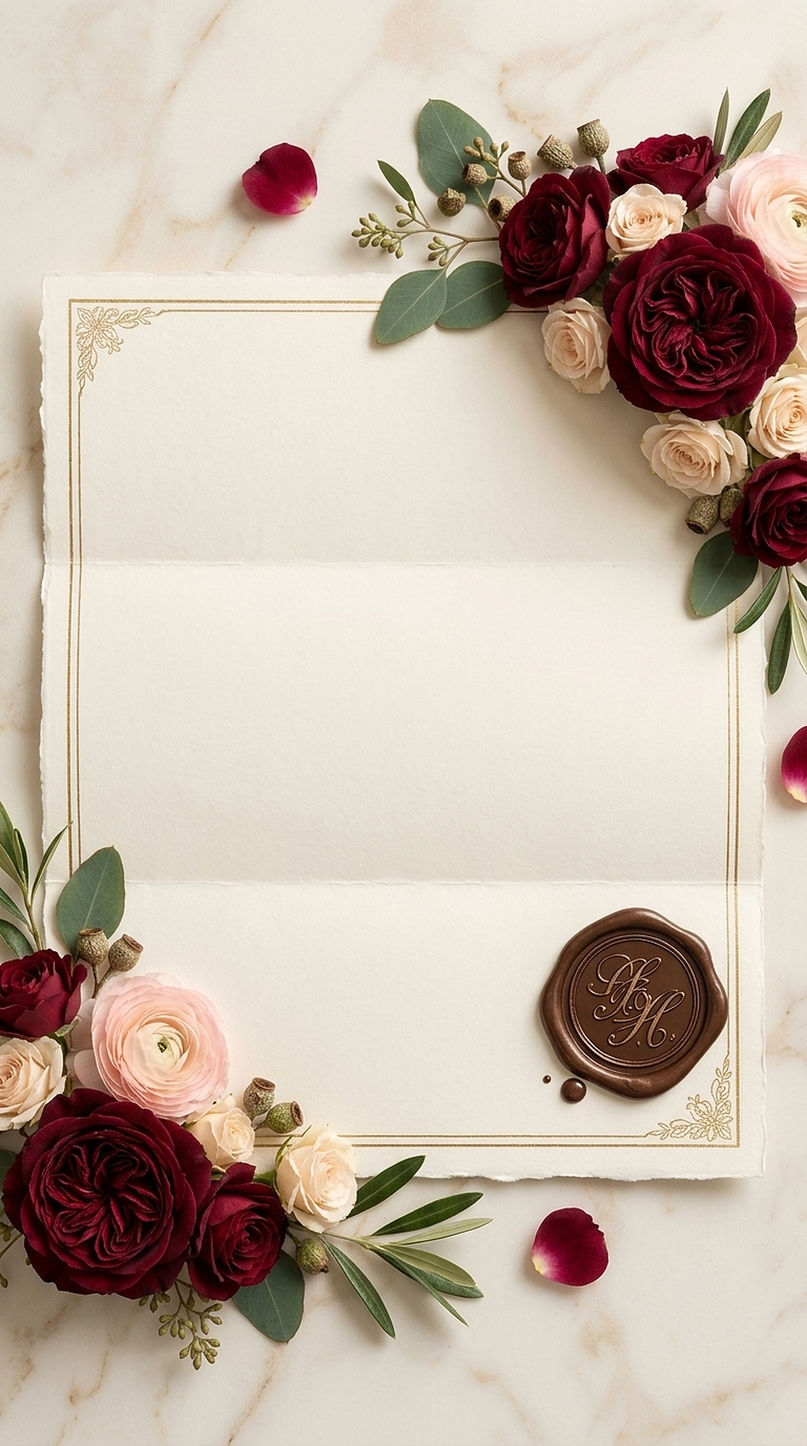
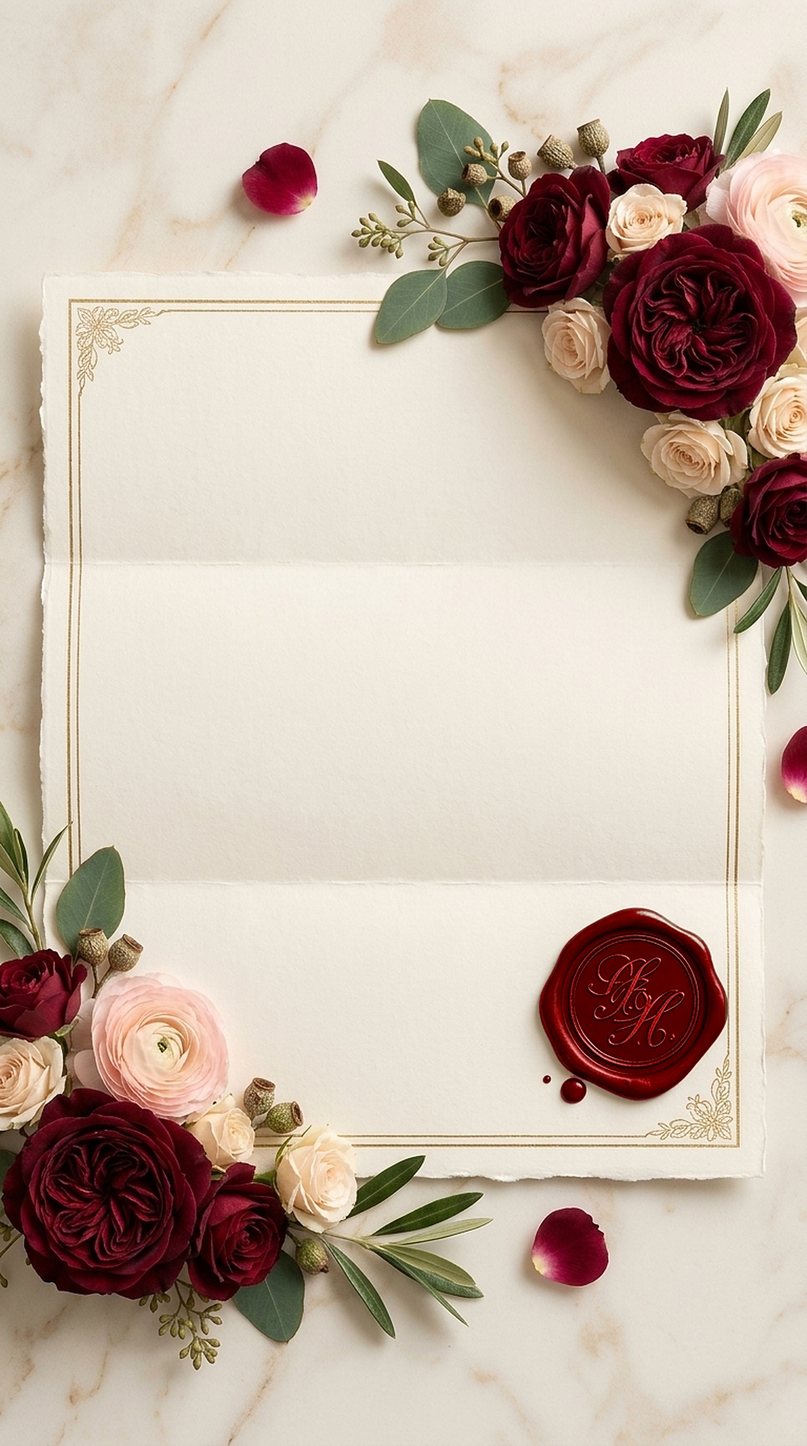
style(card08): change wax seal to luxury wedding ruby red while keeping all other elements untouched

Changed region(s): [[0.6562, 0.625, 0.9062, 0.7812]]

diff --git a/js/preloader.js b/js/preloader.js
@@ -35,7 +35,7 @@ class WeddingPreloader {
       { type: 'image', url: 'assets/images/card05_bg.jpg?v=20260904_photoreal', weight: 10 },
       { type: 'image', url: 'assets/images/card06_bg.jpg?v=20260904_photoreal', weight: 12 },
       { type: 'image', url: 'assets/images/welcome-photo.jpg', weight: 12 },
-      { type: 'image', url: 'assets/images/card08_bg.jpg?v=20260904_photoreal', weight: 10 },
+      { type: 'image', url: 'assets/images/card08_bg.jpg?v=20260905_redseal', weight: 10 },
       { type: 'audio', url: 'assets/audio/wedding-bgm.mp3', weight: 8 },
       { type: 'font', name: 'WebFonts', weight: 6 }
     ];

diff --git a/css/style.css b/css/style.css
@@ -747,7 +747,7 @@ html, body {
    Screen 08: 邀请函全文 Full Invitation
    ========================================================= */
 .card-08 {
-  background-image: url('../assets/images/card08_bg.jpg?v=20260904_photoreal');
+  background-image: url('../assets/images/card08_bg.jpg?v=20260905_redseal');
   background-size: cover;
   background-position: center center;
   background-repeat: no-repeat;
